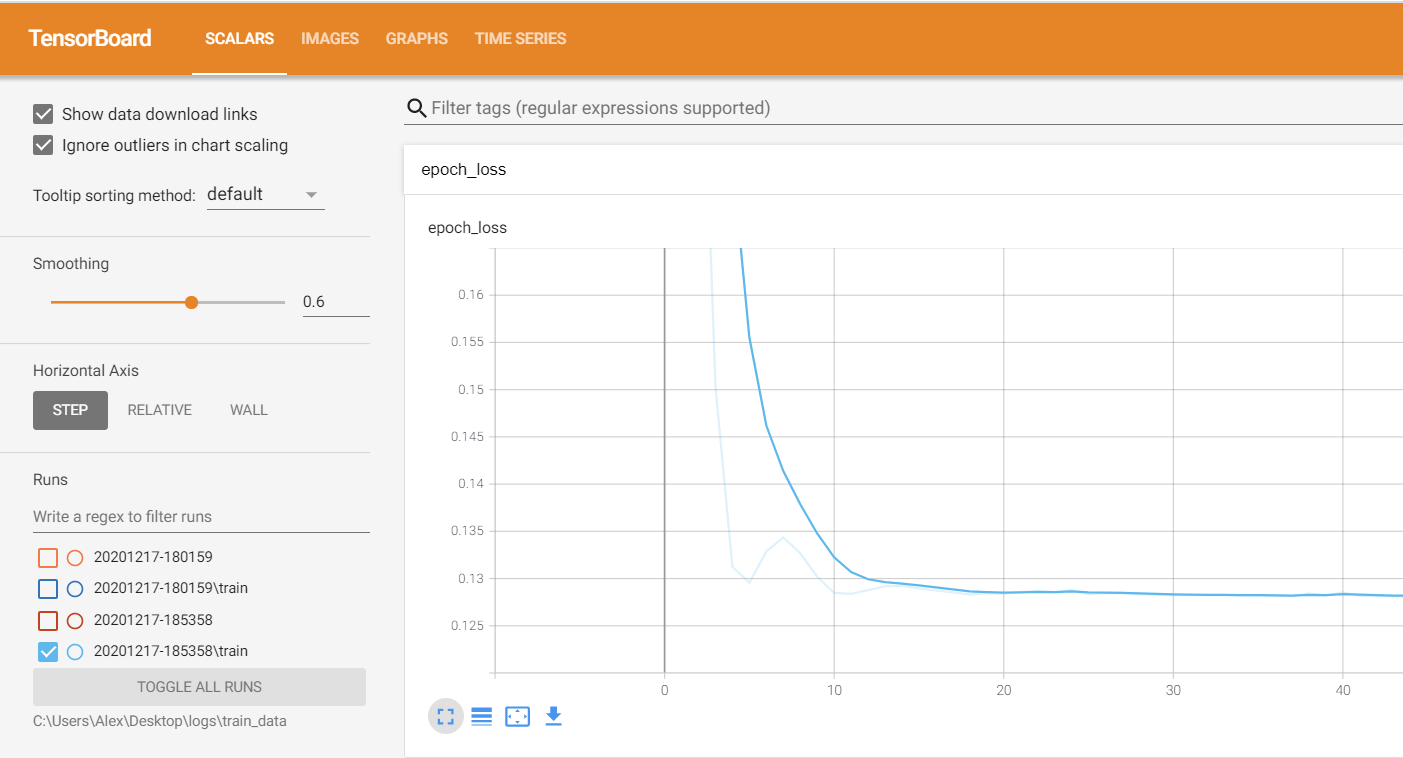
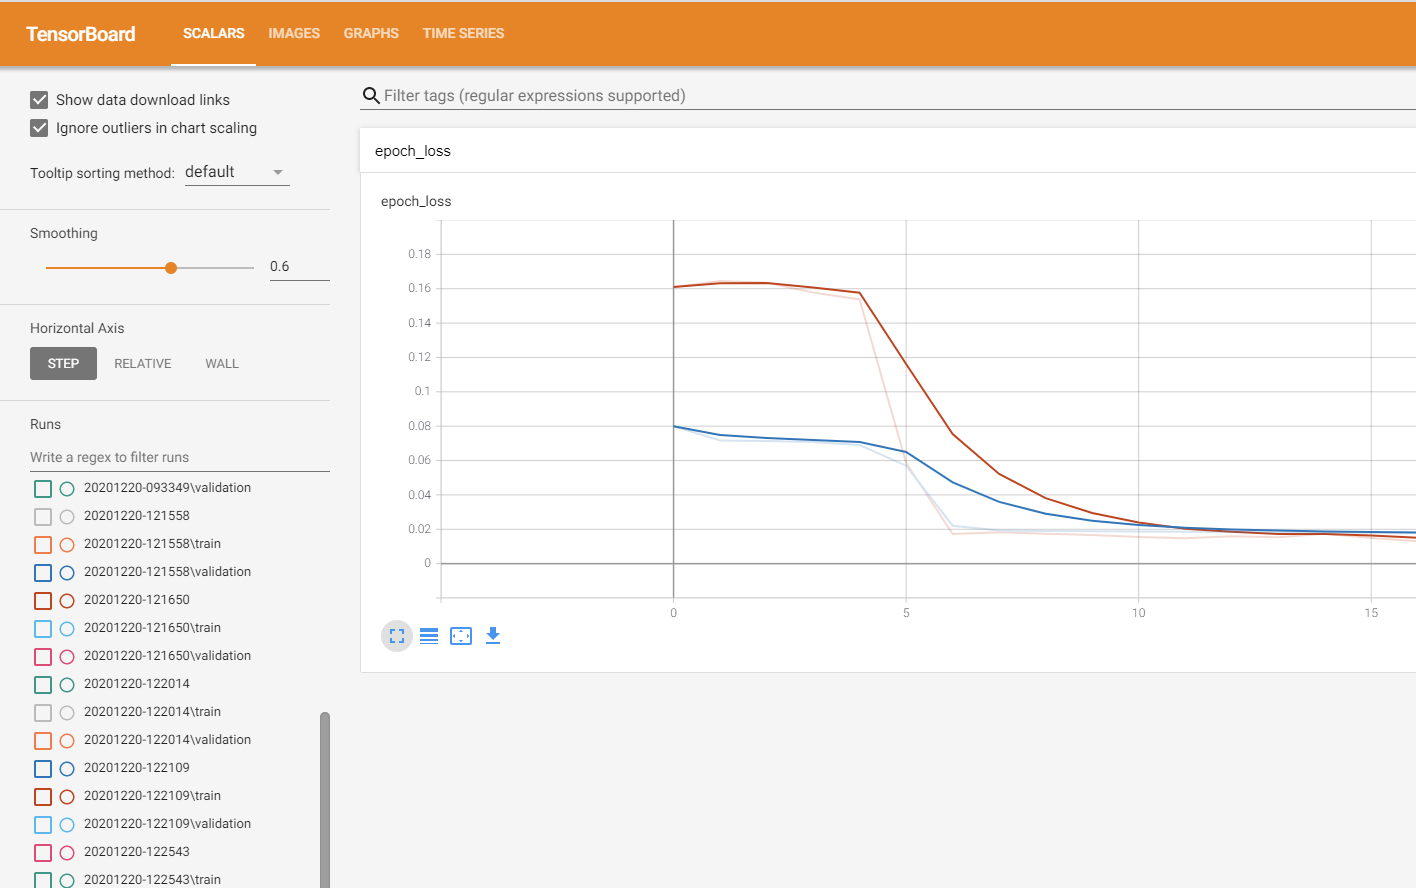
add augmentation and readme.md

diff --git a/lab3/src/random_crop/random_crop.py b/lab3/src/random_crop/random_crop.py
@@ -1,18 +1,16 @@
 __author__ = 'Alexander Soroka, soroka.a.m@gmail.com'
 __copyright__ = """Copyright 2020 Alexander Soroka"""
 
-
-import argparse
 import os
+os.environ["CUDA_VISIBLE_DEVICES"] = "-1"
 from datetime import datetime
 import tensorflow as tf
 import numpy as np
 from pathlib import Path
 from keras.layers import Conv2D, InputLayer, Conv2DTranspose
-from keras.layers.experimental.preprocessing import RandomCrop, Resizing
+from tensorflow.keras import layers
 from keras.models import Sequential
 import tensorflow_io as tfio
-
 
 SHUFFLE_BUFFER = 4
 BATCH_SIZE = 256
@@ -46,9 +44,16 @@ def visualize_images(epoch, model, dataset, writer):
 
     with writer.as_default():
         tf.summary.image('Target Lab', np.reshape(target_image, (-1, 224, 224, 3)), step=epoch)
-        tf.summary.image('Result Lab', np.reshape(predicted_image, (-11, 224, 224, 3)), step=epoch)
+        tf.summary.image('Result Lab', np.reshape(predicted_image, (-1, 224, 224, 3)), step=epoch)
         tf.summary.image('Target RGB', target_rgb, step=epoch)
         tf.summary.image('Result RGB', predicted_rgb, step=epoch)
+
+
+def visualize_images_augmented(epoch, dataset, writer):
+    item = dataset[0]
+
+    with writer.as_default():
+        tf.summary.image('Augmented', np.reshape(item, (-1, 224, 224, 3)), step=epoch)
 
 
 def parse_proto_example(proto):
@@ -76,10 +81,7 @@ def create_dataset(filenames, batch_size):
 def build_model():
     model = Sequential()
 
-    model.add(RandomCrop(100, 100))
-    model.add(Resizing(224, 224))
-
-    model.add(InputLayer(input_shape=(224, 224, 1)))
+    model.add(InputLayer(input_shape=(224, 224, 3)))
 
     model.add(Conv2D(1, (2, 2), activation='relu', padding='same'))
 
@@ -99,29 +101,44 @@ def build_model():
 
 
 def main():
-    args = argparse.ArgumentParser()
-    args.add_argument('--train', type=str, help='Glob pattern to collect train tfrecord files')
-    args.add_argument('--test', type=str, help='Glob pattern to collect test tfrecord files')
-
     log_dir = "C:/Users/Alex/Desktop/logs/train_data/" + datetime.now().strftime("%Y%m%d-%H%M%S")
+    file_writer = tf.summary.create_file_writer(log_dir)
 
     current_dir = os.path.dirname(os.path.realpath(__file__))
 
     train_dir = Path(current_dir + "/../train_tfr")
     file_list_train = [str(pp) for pp in train_dir.glob("*")]
     file_list_train = tf.random.shuffle(file_list_train)
+    c = 0
+    for fn in file_list_train:
+        for record in tf.data.TFRecordDataset(fn):
+            c += 1
+    print(f'Count of train images: {c}')
 
     valid_dir = Path(current_dir + "/../validation_tfr")
     file_list_valid = [str(pp) for pp in valid_dir.glob("*")]
     file_list_valid = tf.random.shuffle(file_list_valid)
+    v = 0
+    for fn in file_list_valid:
+        for record in tf.data.TFRecordDataset(fn):
+            v += 1
+    print(f'Count of validation images: {v}')
 
     train_dataset = create_dataset(file_list_train, BATCH_SIZE)
+    data_augmentation = tf.keras.Sequential([
+        layers.experimental.preprocessing.RandomCrop(112, 112),
+        layers.experimental.preprocessing.Resizing(224, 224),
+        layers.experimental.preprocessing.RandomRotation(factor=0.45),
+        layers.experimental.preprocessing.RandomFlip(mode='horizontal')
+    ])
+    augmented = [data_augmentation(i) for i in train_dataset]
+
     validation_dataset = create_dataset(file_list_valid, BATCH_SIZE)
 
-    validation_y = [np.reshape(i[:, :, :, 1:], (-1, 224, 224, 2)) for i in validation_dataset.as_numpy_iterator()][0]
+    validation_y = [np.reshape(i[:, :, :, 1:], (-1, 224, 224, 2)) for i in validation_dataset]
 
-    x = [np.reshape(i[:, :, :, 0], (-1, 224, 224, 1)) for i in train_dataset.as_numpy_iterator()]
-    y = [np.reshape(i[:, :, :, 1:], (-1, 224, 224, 2)) for i in train_dataset.as_numpy_iterator()]
+    x = [np.reshape(i[:, :, :, 0], (-1, 224, 224, 1)) for i in augmented]
+    y = [np.reshape(i[:, :, :, 1:], (-1, 224, 224, 2)) for i in validation_dataset]
 
     model = build_model()
 
@@ -130,16 +147,18 @@ def main():
          loss=tf.keras.losses.mean_squared_error
     )
 
-    file_writer = tf.summary.create_file_writer(log_dir)
     model.fit(
         x=x.pop(),
         y=y.pop(),
         epochs=100,
-        validation_data=validation_y.all(),
+        validation_data=validation_y.pop().all(),
         callbacks=[
             tf.keras.callbacks.TensorBoard(log_dir),
             tf.keras.callbacks.LambdaCallback(
                 on_epoch_end=lambda epoch, logs: visualize_images(epoch, model, validation_dataset, file_writer)
+            ),
+            tf.keras.callbacks.LambdaCallback(
+                on_epoch_end=lambda epoch, logs: visualize_images_augmented(epoch, augmented, file_writer)
             )
         ]
     )

diff --git a/lab3/train.py b/lab3/train.py
@@ -5,12 +5,12 @@ import os
 os.environ["CUDA_VISIBLE_DEVICES"] = "-1"
 from datetime import datetime
 import tensorflow as tf
-import numpy as np
 from pathlib import Path
 from keras.layers import Conv2D, InputLayer, Conv2DTranspose
 from tensorflow.keras import layers
 from keras.models import Sequential
 import tensorflow_io as tfio
+import numpy as np
 
 SHUFFLE_BUFFER = 4
 BATCH_SIZE = 256
@@ -20,8 +20,10 @@ RESIZE_TO = 224
 TRAINSET_SIZE = 14034
 VALSET_SIZE = 3000
 
+
 config = tf.compat.v1.ConfigProto(gpu_options=tf.compat.v1.GPUOptions(allow_growth=True))
 sess = tf.compat.v1.Session(config=config)
+
 
 def visualize_images(epoch, model, dataset, writer):
     item = iter(dataset).next()
@@ -46,6 +48,13 @@ def visualize_images(epoch, model, dataset, writer):
         tf.summary.image('Result Lab', np.reshape(predicted_image, (-1, 224, 224, 3)), step=epoch)
         tf.summary.image('Target RGB', target_rgb, step=epoch)
         tf.summary.image('Result RGB', predicted_rgb, step=epoch)
+
+
+def visualize_images_augmented(epoch, dataset, writer):
+    item = dataset[0]
+
+    with writer.as_default():
+        tf.summary.image('Augmented', np.reshape(item, (-1, 224, 224, 3)), step=epoch)
 
 
 def parse_proto_example(proto):
@@ -98,13 +107,23 @@ def main():
 
     current_dir = os.path.dirname(os.path.realpath(__file__))
 
-    train_dir = Path(current_dir + "/../50kdatasetsmall_tfr")
+    train_dir = Path(current_dir + "/../train_tfr")
     file_list_train = [str(pp) for pp in train_dir.glob("*")]
     file_list_train = tf.random.shuffle(file_list_train)
+    c = 0
+    for fn in file_list_train:
+        for record in tf.data.TFRecordDataset(fn):
+            c += 1
+    print(f'Count of train images: {c}')
 
     valid_dir = Path(current_dir + "/../validation_tfr")
     file_list_valid = [str(pp) for pp in valid_dir.glob("*")]
     file_list_valid = tf.random.shuffle(file_list_valid)
+    v = 0
+    for fn in file_list_valid:
+        for record in tf.data.TFRecordDataset(fn):
+            v += 1
+    print(f'Count of validation images: {v}')
 
     train_dataset = create_dataset(file_list_train, BATCH_SIZE)
     data_augmentation = tf.keras.Sequential([
@@ -113,17 +132,17 @@ def main():
         layers.experimental.preprocessing.RandomRotation(factor=0.45),
         layers.experimental.preprocessing.RandomFlip(mode='horizontal')
     ])
-
     augmented = [data_augmentation(i) for i in train_dataset]
-    with file_writer.as_default():
-        tf.summary.image('Augmented1', np.reshape(augmented[1], (-1, 224, 224, 3)), step=0)
 
     validation_dataset = create_dataset(file_list_valid, BATCH_SIZE)
 
     validation_y = [np.reshape(i[:, :, :, 1:], (-1, 224, 224, 2)) for i in validation_dataset]
+    validation_x = [np.reshape(i[:, :, :, 0], (-1, 224, 224, 1)) for i in validation_dataset]
 
     x = [np.reshape(i[:, :, :, 0], (-1, 224, 224, 1)) for i in augmented]
-    y = [np.reshape(i[:, :, :, 1:], (-1, 224, 224, 2)) for i in validation_dataset]
+    x.pop()
+    y = [np.reshape(i[:, :, :, 1:], (-1, 224, 224, 2)) for i in augmented]
+    y.pop()
 
     model = build_model()
 
@@ -133,14 +152,17 @@ def main():
     )
 
     model.fit(
-        x=x.pop(),
-        y=y.pop(),
-        epochs=100,
-        validation_data=validation_y.pop().all(),
+        x=tf.concat(x, 0),
+        y=tf.concat(y, 0),
+        epochs=40,
+        validation_data=(validation_x, validation_y),
         callbacks=[
             tf.keras.callbacks.TensorBoard(log_dir),
             tf.keras.callbacks.LambdaCallback(
                 on_epoch_end=lambda epoch, logs: visualize_images(epoch, model, validation_dataset, file_writer)
+            ),
+            tf.keras.callbacks.LambdaCallback(
+                on_epoch_end=lambda epoch, logs: visualize_images_augmented(epoch, augmented, file_writer)
             )
         ]
     )
